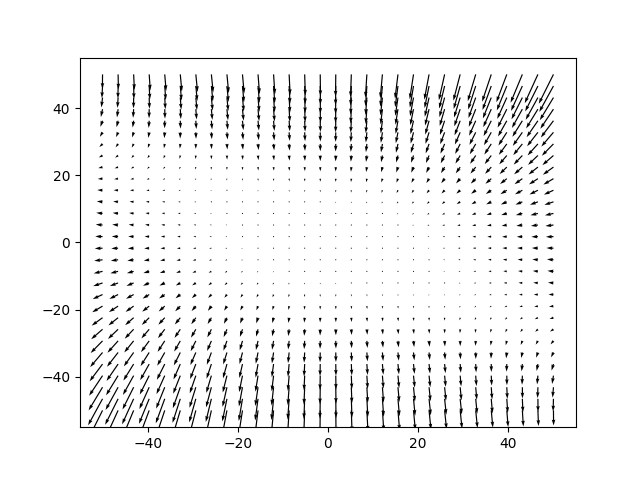
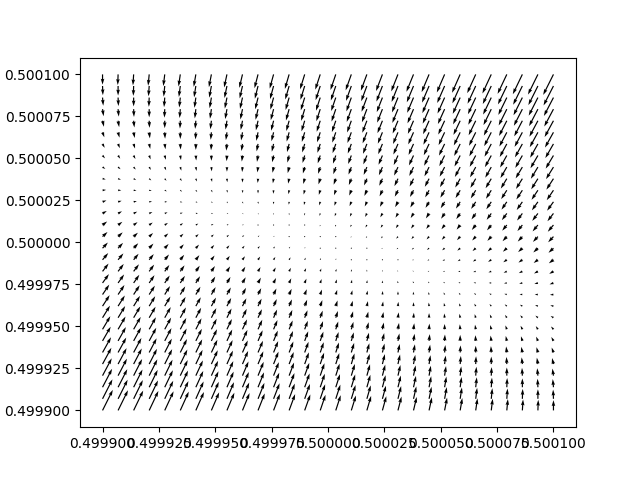
Cleared up quiver plot

diff --git a/Quiver.py b/Quiver.py
@@ -1,8 +1,8 @@
 import matplotlib.pyplot as plt
 import numpy as np
 
-R = np.linspace(-50, 50, 30)
-G = np.linspace(-50, 50, 30)
+R = np.linspace(0.3, 0.7, 30)
+G = np.linspace(0.3, 0.7, 30)
 r, g = np.meshgrid(R,G)
 F = r * (1 - r - g)
 H = g * (2 - r - (3 * g))
